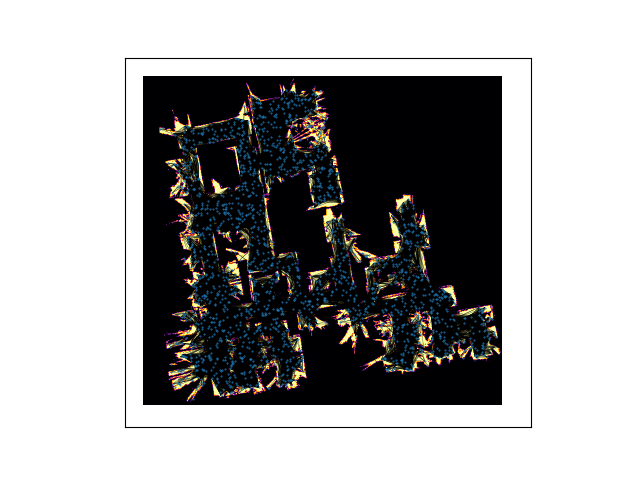
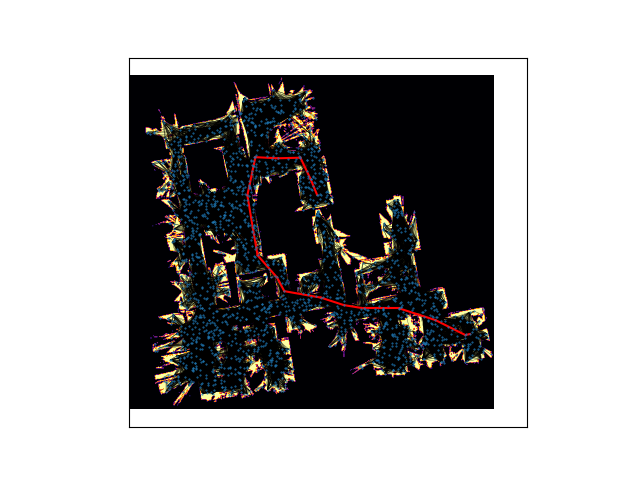
prm completed
astar and PRM completed full code

Changed region(s): [[0.1875, 0.1562, 0.7812, 0.875]]

diff --git a/src/prm.py b/src/prm.py
@@ -105,16 +105,21 @@ class PRM():
             return
 
     def aStartSearch(self, start, goal):
+        print("start", start)
+        print("goal", goal)
         path = []
+        poses = []
+        for i in prm.graph.nodes.data('pos'):
+            poses.append(i[1])
         if (start != goal):
-            if start not in self.graph.nodes:
+            if start not in poses:
                 print("Start or Goal not in graph")
                 self.addVertex(start, self.graph.number_of_nodes() +1)
                 print("added start")
-            if goal not in self.graph.nodes:
+            if goal not in poses:
                 self.addVertex(goal, self.graph.number_of_nodes() +1)
                 print("added goal")
-            #path = nx.astar_path(self.graph, start, goal, heuristic=math.dist, weight='weight')
+            path = nx.astar_path(self.graph, 2001, 2002)
             return path
         else:
             return None
@@ -122,18 +127,33 @@ class PRM():
 if __name__ == "__main__":
     prm = PRM(10000, 75)
     prm.build_graph(2000)
-    path = prm.aStartSearch((600,200), (350, 400))
-    if (635,140) in prm.graph.nodes:
+    start = (635,140)
+    goal = (350,400)
+    path = prm.aStartSearch(start, goal)
+    # print("graph", prm.graph.nodes)
+    # print("start in graph", prm.graph.nodes.data('pos'))
+    # print("start in graph", prm.graph.nodes[2002]['pos'])
+    print("PATHHHHH",path)
+    poses = []
+    for i in prm.graph.nodes.data('pos'):
+        poses.append(i[1])
+    if start in poses:
         print("True")
     else:
         print("False")
     grid = load_occupancy_map()
     grid[np.where(grid>0)] = 255
+    for i in path:
+        grid[prm.graph.nodes[i]['pos'][0]][prm.graph.nodes[i]['pos'][1]] = 127
     plt.imshow(np.transpose(grid), cmap="inferno", origin='lower')
     # print("graph", prm.graph.number_of_nodes())
     # print("graph", prm.graph.number_of_edges())
     # for v in prm.graph.nodes:
     #     plt.plot(prm.graph.nodes[v]['pos'][1], prm.graph.nodes[v]['pos'][0], 'r',alpha=0.2)
+    for i in range(len(path)):
+        #plt.plot(prm.graph.nodes[path[i]]['pos'][0], prm.graph.nodes[path[i]]['pos'][1], 'ro',alpha=1)
+        if i < len(path)-1:
+            plt.plot([prm.graph.nodes[path[i]]['pos'][0],prm.graph.nodes[path[i+1]]['pos'][0]], [prm.graph.nodes[path[i]]['pos'][1],prm.graph.nodes[path[i+1]]['pos'][1]], 'r',alpha=1)
     nx.draw_networkx(prm.graph, pos=nx.get_node_attributes(prm.graph, 'pos'), with_labels=False, width=0.2, node_size=0.2)
     plt.savefig('prm.png')
     plt.show()
